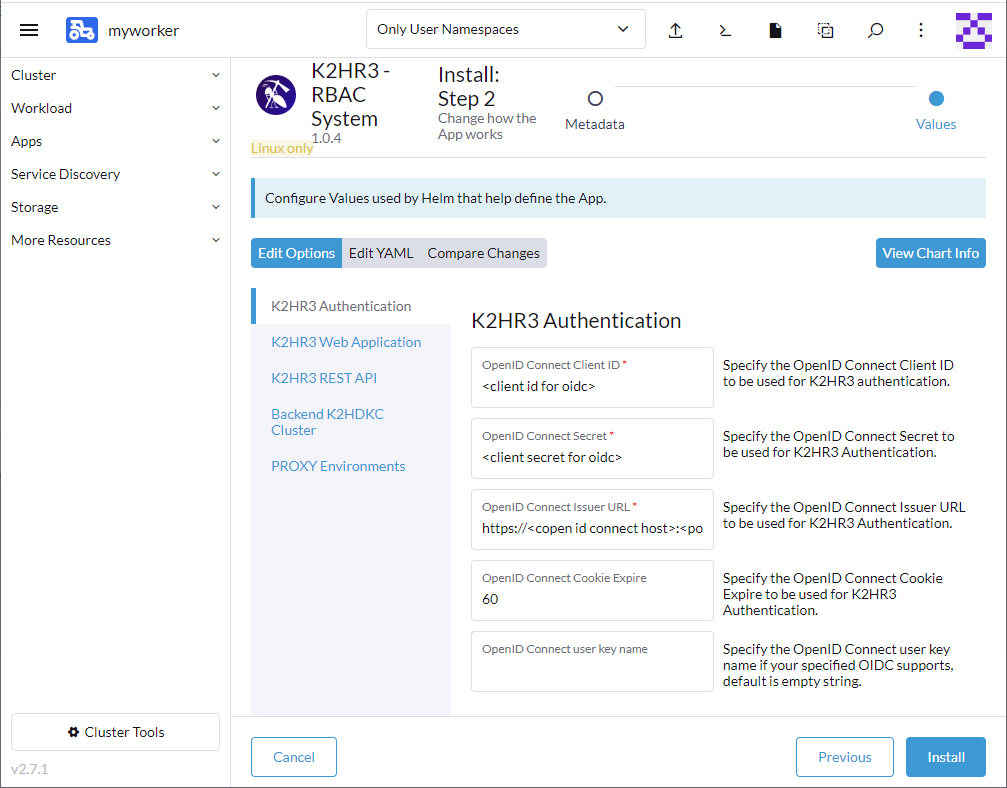
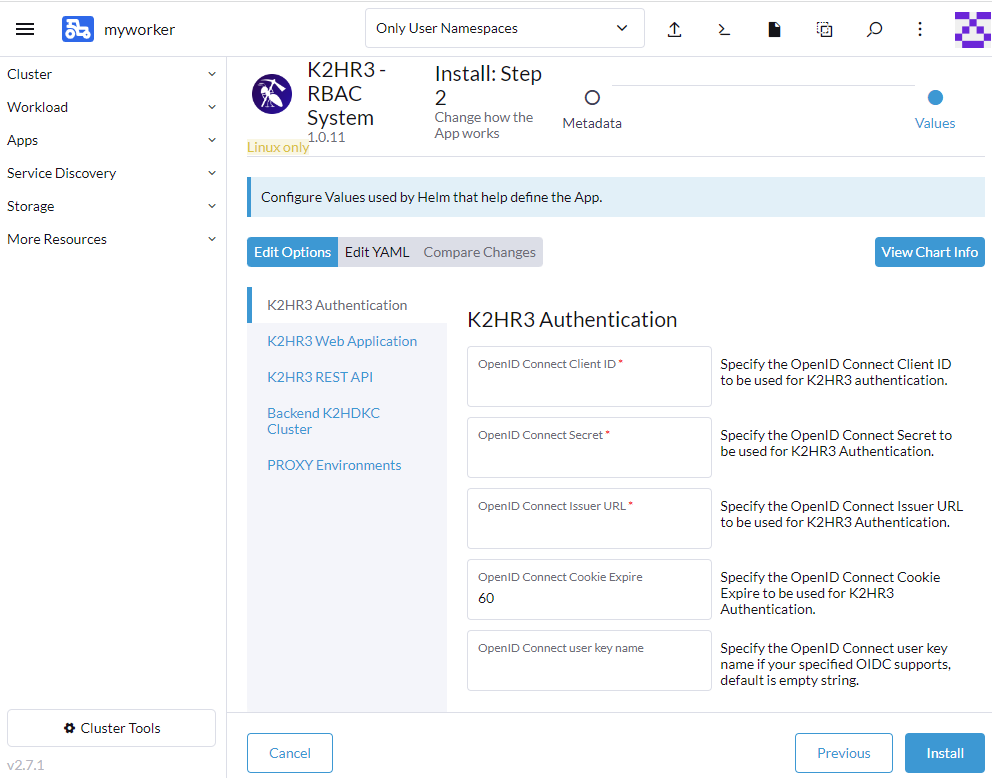
[gh-pages] Updated documents about k2hr3 helm chart and rancher

diff --git a/helm_chart.md b/helm_chart.md
@@ -65,11 +65,13 @@ Below is a list of the options offered by the **K2HR3 Helm Chart**.
 | `k2hr3.api.extHostname`      |              | ""                                                     |
 | `k2hr3.api.extPort`          |              | 0                                                      |
 | `k2hr3.api.customConf`       |              | ""                                                     |
+| `k2hr3.api.localTenant`      |              | true                                                   |
 | `k2hr3.app.baseName`         |              | ""                                                     |
 | `k2hr3.app.count`            |              | 2                                                      |
 | `k2hr3.app.extHostname`      |              | ""                                                     |
 | `k2hr3.app.extPort`          |              | 0                                                      |
 | `k2hr3.app.customConf`       |              | ""                                                     |
+| `k2hr3.app.localTenant`      |              | true                                                   |
 | `k2hr3.env.httpProxy`        |              | ""                                                     |
 | `k2hr3.env.httpsProxy`       |              | ""                                                     |
 | `k2hr3.env.noProxy`          |              | ""                                                     |
@@ -188,6 +190,9 @@ Specify the contents of the `local.json` file, which is one of the configuration
 Specify the value in `JSON String` format.  
 If this option is omitted, the `local.json` file will not be used.  
 
+### k2hr3.api.localTenant
+Specify whether the REST API server of the K2HR3 system supports `LOCAL TENANT`.  
+
 ### k2hr3.app.baseName
 Specifies the base name of the Web Application server for the K2HR3 system.  
 If this option is omitted, it will be used empty string and `r3app` will be used.  
@@ -210,6 +215,9 @@ If this option is omitted, it will be used `0` and the `32443` port will be used
 Specify the contents of the `local.json` file, which is one of the configuration files for the Web Application server of the K2HR3 system, and overwrite the default configuration values.  
 Specify the value in `JSON String` format.  
 If this option is omitted, the `local.json` file will not be used.  
+
+### k2hr3.app.localTenant
+Specify whether the Web Application server for the K2HR3 system supports `LOCAL TENANT`.  
 
 ### k2hr3.env.httpProxy
 Specifies `HTTP_PROXY` environment in each K2HR3 system component(K2HR3 Web Appilcation / K2HR3 REST API / K2HDKC cluster) when building the K2HR3 system.  

diff --git a/rancher_helm_chart.md b/rancher_helm_chart.md
@@ -149,6 +149,9 @@ When changing images, you can set the organization name, image name, and image t
 If you want to change the default settings of `K2HR3 Web Application`, you can specify `Custom Configuration` field as `local.json` to overwrite default configuration.  
 This value is specified by `JSON String`.  
 
+You can specify whether `K2HR3 Web Application` supports `LOCAL TENANT`.  
+If you don't support it, uncheck the `Local Tenant` checkbox.  
+
 After entering the required items, the setting of this `K2HR3 Web Application` item is completed.  
 
 #### K2HR3 REST API
@@ -172,6 +175,13 @@ When changing images, you can set the organization name, image name, and image t
 
 If you want to change the default settings of `K2HR3 REST API`, you can specify `Custom Configuration` field as `local.json` to overwrite default configuration.  
 This value is specified by `JSON String`.  
+
+You can specify whether `K2HR3 REST API` supports `LOCAL TENANT`.  
+If you don't support it, uncheck the `Local Tenant` checkbox.  
+
+In `K2HR3 Helm Chart`, `K2HR3 system` cooperates with `Kubernetes` and its `Namespace` is used as a tenant.  
+Create a `Service Account` as you will need permission to access this `Namespace` as default.  
+If you do not need this `Service Account`, uncheck the `Create Service Account` checkbox.  
 
 After entering the required items, the setting of this `K2HR3 REST API` item is completed.  
 

diff --git a/whatnew.md b/whatnew.md
@@ -14,6 +14,9 @@ next_string: Detail
 ---
 
 # What's new
+## [2 Aug 2023] K2HR3 APP/Helm Chart updated
+The source code of K2HR3 APP (Version 1.0.23) and K2HR3 Helm Chart (Version 1.0.11) has been released on Github.com.  
+
 ## [26 Jul 2023] K2HR3 API updated
 The source code of K2HR3 CLI (Version 1.0.9) has been released on Github.com.  
 

diff --git a/whatnewja.md b/whatnewja.md
@@ -14,6 +14,9 @@ next_string: Detail
 ---
 
 # What's new
+## 2023年8月2日
+K2HR3 Helm Chart (Version 1.0.11)、K2HR3 APP (Version 1.0.23) をリリースし、Github.comで公開しました。  
+
 ## 2023年7月27日
 K2HR3 CLI (Version 1.0.9) をリリースし、Github.comで公開しました。  
 
